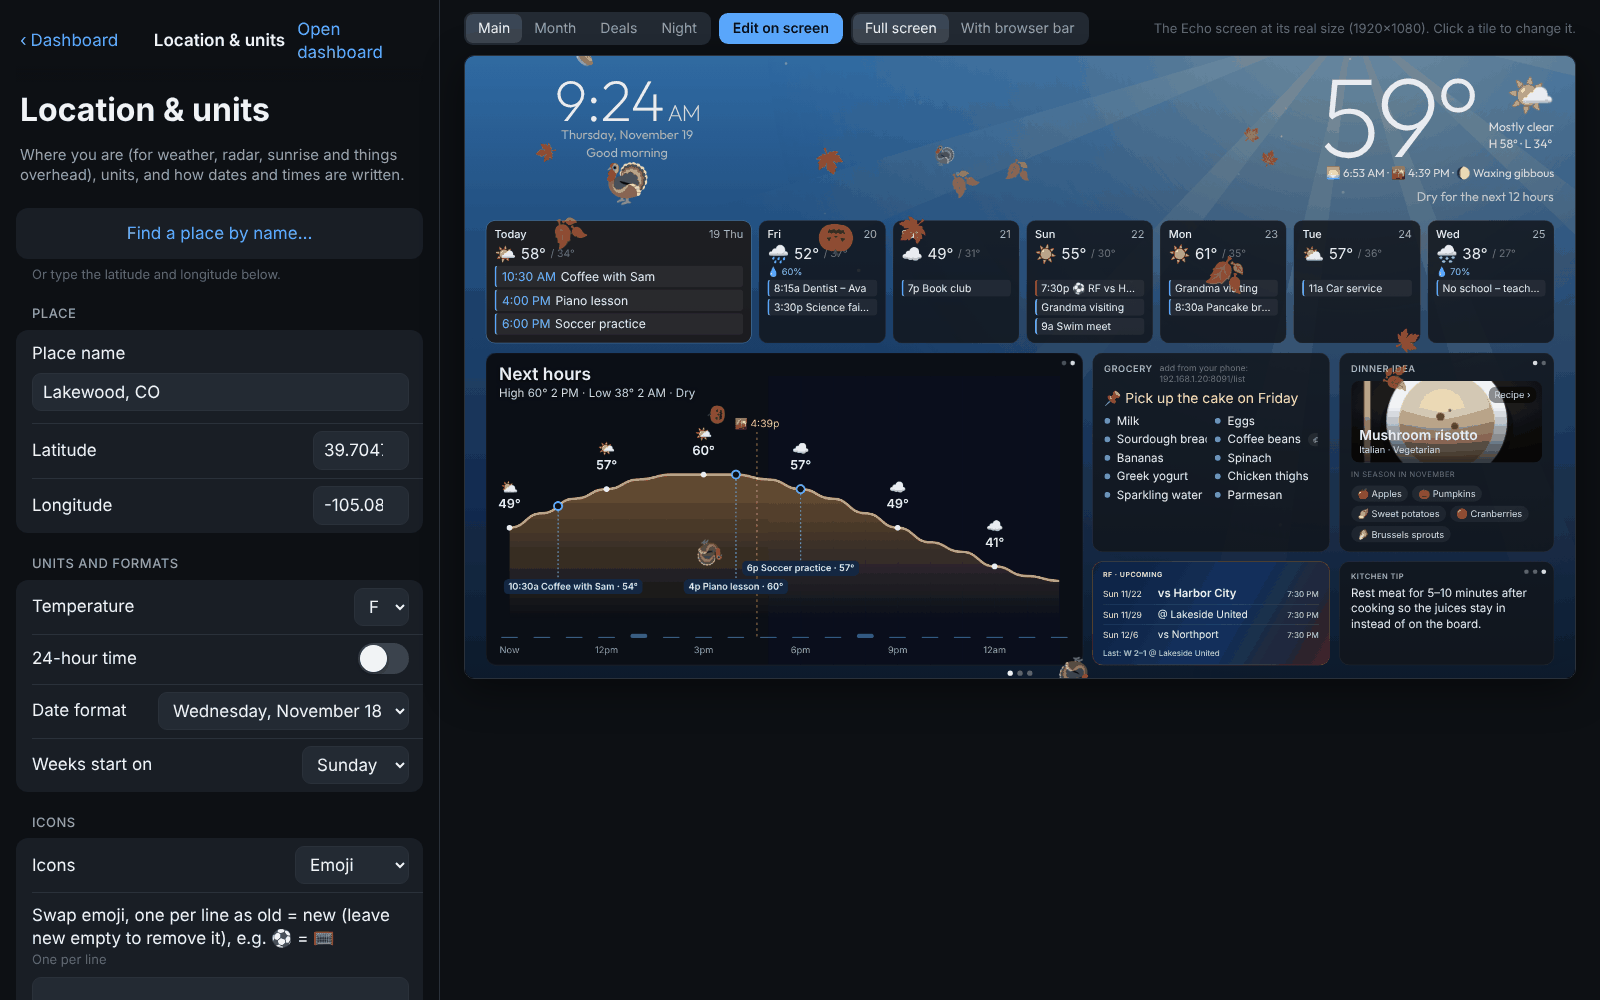
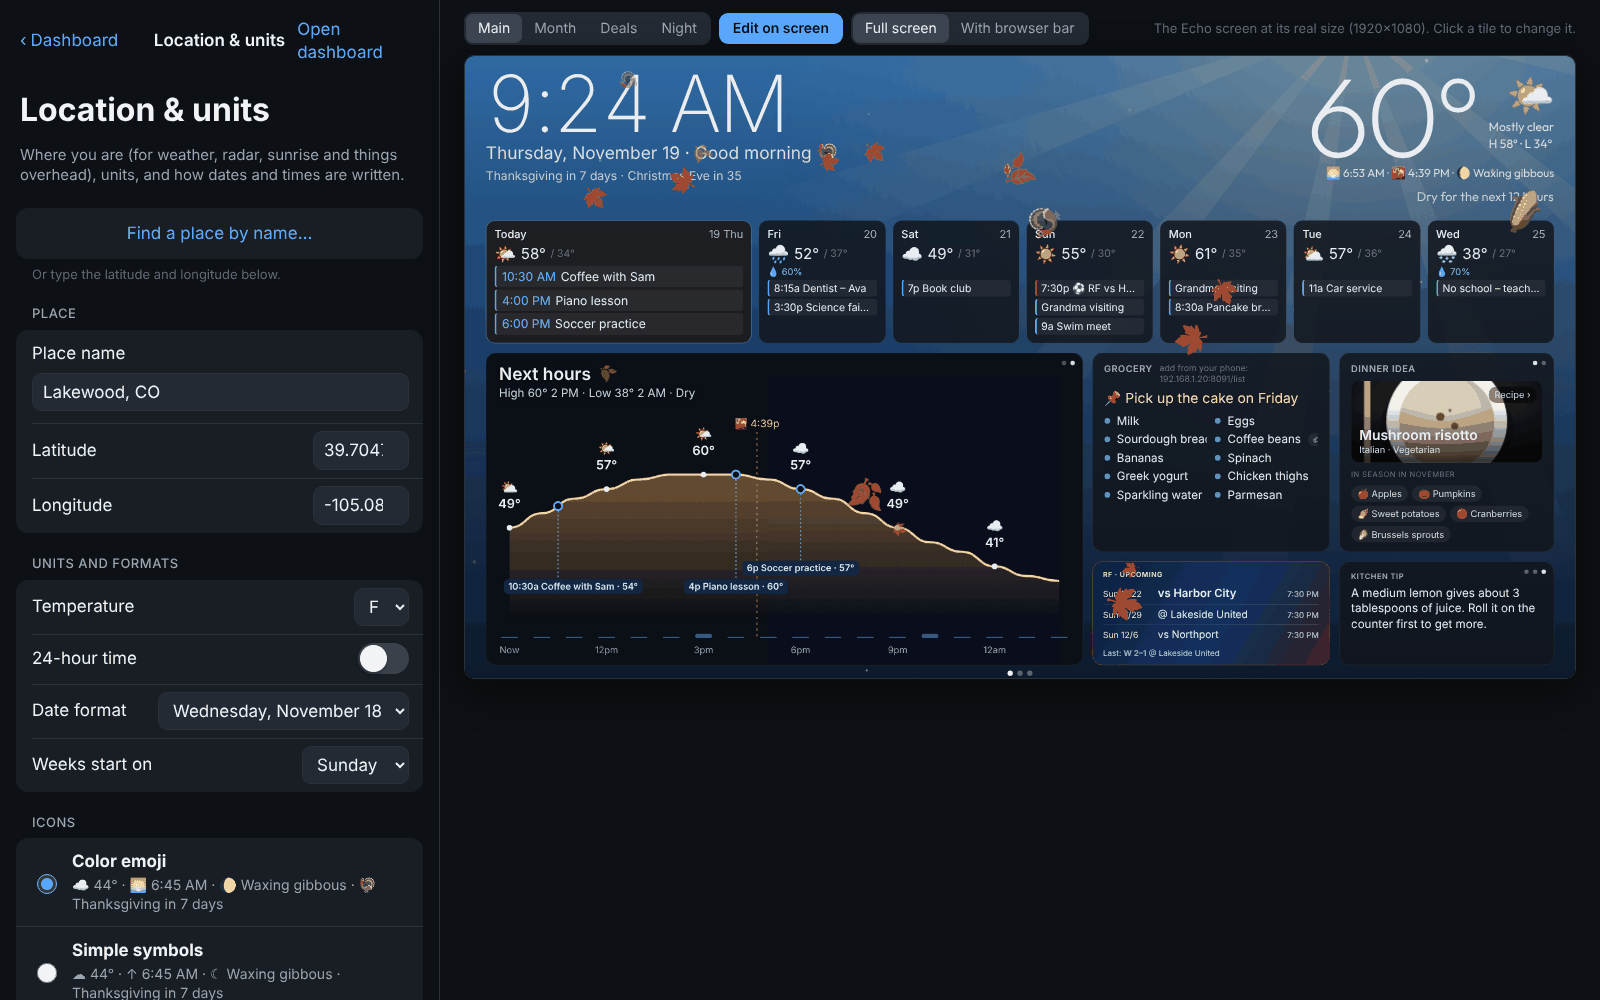
Demo: Classic clock style in the screenshots and GIF
Wider clock box, no custom design. capture.js now fixes the LAN address before every shot and opens the tile designer with the new-design button.

Claude-Session: https://claude.ai/code/session_015m1pyeemnMZhLHvoaB9sxr

diff --git a/demo/capture.js b/demo/capture.js
@@ -16,12 +16,12 @@ async function open(b, url, {w=1920, h=1080, time='2026-11-19T09:24:00', dpr=1, 
   await p.goto(BASE + url);
   await p.addStyleTag({content: HIDE + (nofx ? '#fx{display:none!important}' : '')});
   await p.waitForTimeout(wait);
-  // the list hint shows the server's address; show a typical LAN address instead
-  await p.evaluate(() => { for (const d of [document, ...[...document.querySelectorAll('iframe')].map(i => { try{ return i.contentDocument; }catch(e){ return null; } })]) if (d){
-    const t = d.createTreeWalker(d.body, NodeFilter.SHOW_TEXT); for (let n = t.nextNode(); n; n = t.nextNode()) n.nodeValue = n.nodeValue.replace(/(127\.0\.0\.1|localhost)/g, '192.168.1.20'); } });
   return p;
 }
-const shot = (p, name, o) => p.screenshot(Object.assign({path: path.join(OUT, name + '.png')}, o || {}));
+// the list hint shows the server's address; show a typical LAN address instead
+const fixIP = p => p.evaluate(() => { for (const d of [document, ...[...document.querySelectorAll('iframe')].map(i => { try{ return i.contentDocument; }catch(e){ return null; } })]) if (d){
+  const t = d.createTreeWalker(d.body, NodeFilter.SHOW_TEXT); for (let n = t.nextNode(); n; n = t.nextNode()) n.nodeValue = n.nodeValue.replace(/(127\.0\.0\.1|localhost)/g, '192.168.1.20'); } });
+const shot = async (p, name, o) => { await fixIP(p); await p.screenshot(Object.assign({path: path.join(OUT, name + '.png')}, o || {})); };
 (async () => {
   fs.mkdirSync(path.join(OUT, 'tiles'), {recursive:true});
   const b = await chromium.launch();
@@ -36,7 +36,7 @@ const shot = (p, name, o) => p.screenshot(Object.assign({path: path.join(OUT, na
   await p.mouse.click(250, 120); await p.waitForTimeout(1200); await shot(p, 'editor');
   await p.click('text=Add another tile to this box'); await p.waitForTimeout(1500); await shot(p, 'tile-store');
   p = await open(b, '/dash/content', {nofx:true}); await p.evaluate(() => dashEdit(true)); await p.waitForTimeout(1200);
-  await p.mouse.click(250, 120); await p.waitForTimeout(1000); await p.click('text=Customize the design'); await p.waitForTimeout(1500); await shot(p, 'designer');
+  await p.mouse.click(250, 120); await p.waitForTimeout(1000); await p.click('[data-act="dznew"]'); await p.waitForTimeout(1500); await shot(p, 'designer');
   p = await open(b, '/control', {w:1600, h:1000}); await shot(p, 'controls');
   for (const [go, name] of [['mod:general', 'controls-location'], ['looks', 'controls-looks'], ['effects', 'controls-effects'], ['night', 'controls-night'], ['newpage', 'controls-newpage']]){
     await p.evaluate(g => document.querySelector('[data-go="' + g + '"]').click(), go); await p.waitForTimeout(1500); await shot(p, name);
